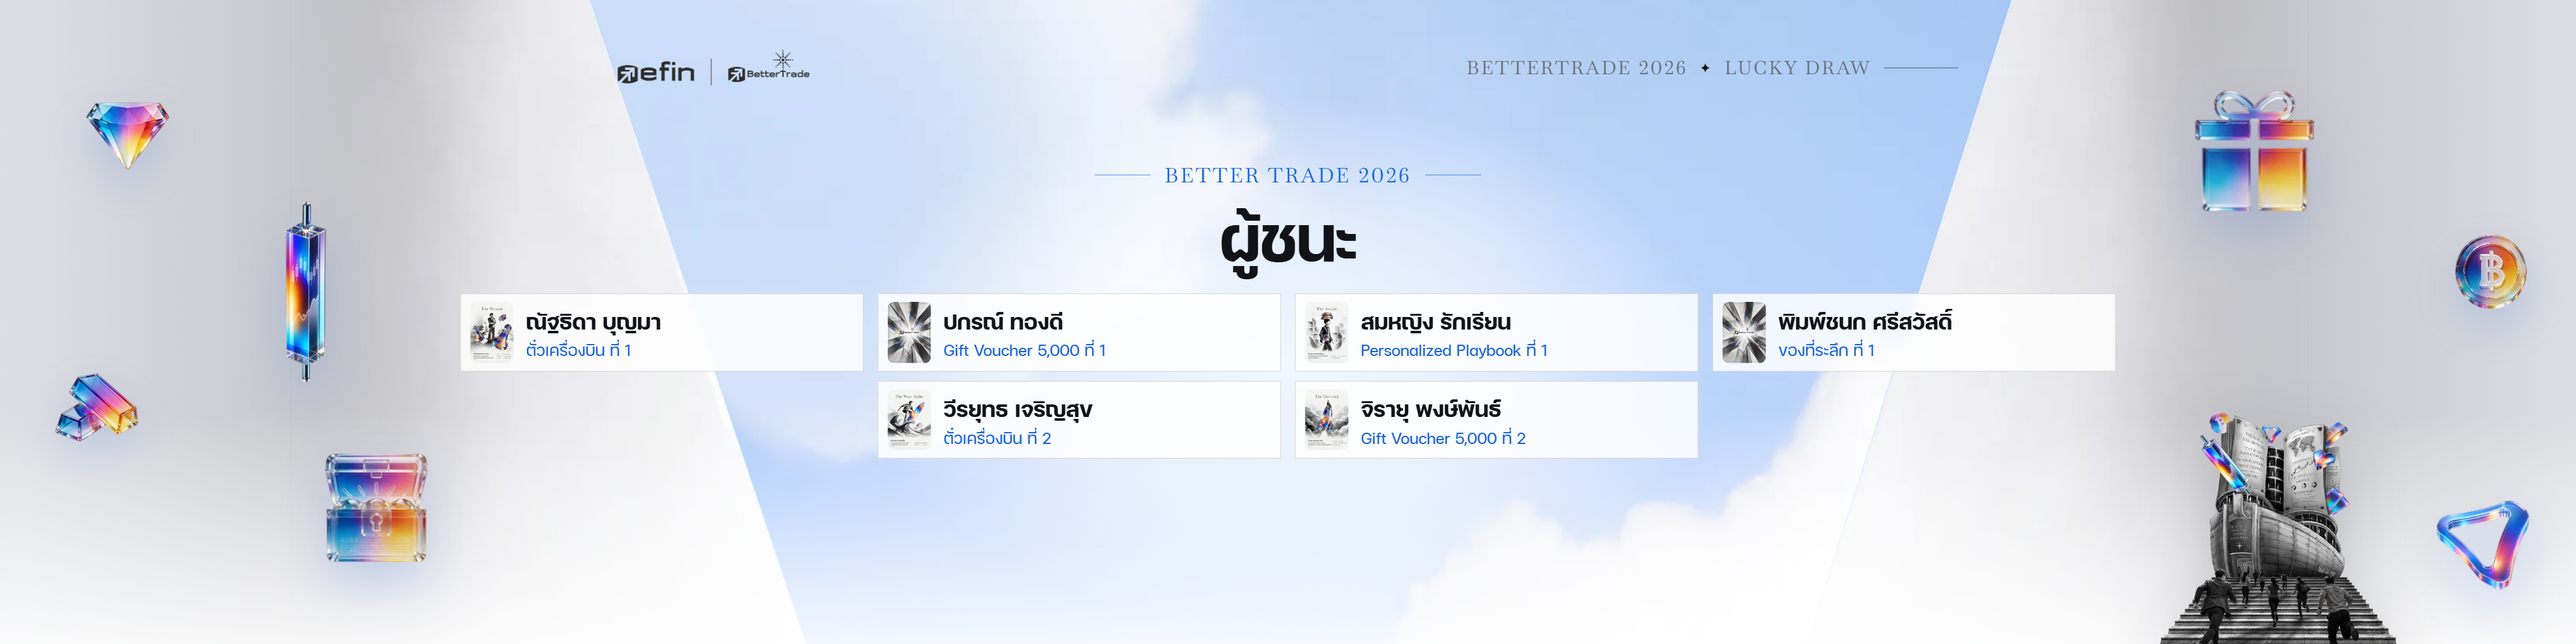
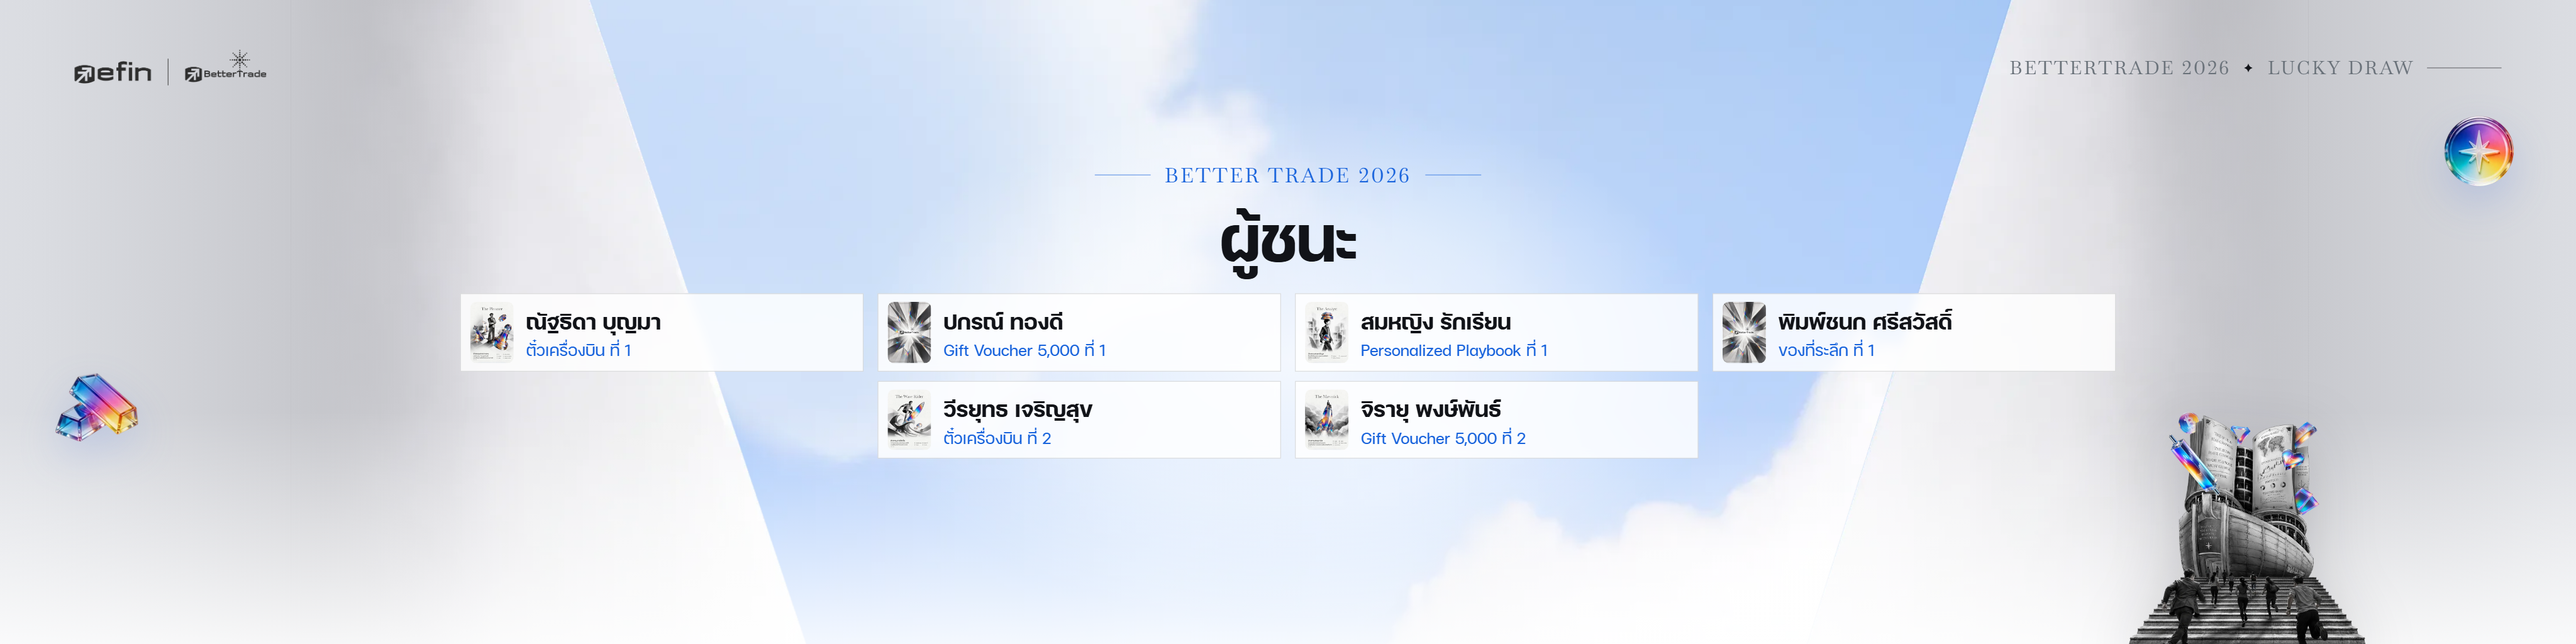
Spread Main Stage glass pieces in three depth layers; align the header to the screen edges
- Far / mid / near layers: pieces move in from the wings into the sky around the content,
  with the bar chart, chest, coin and efin centred between their neighbours
- Replace duplicates: compass (far right) instead of a second coin, no far-left diamond or book
- Header row (logos and BETTERTRADE 2026) follows the edges of the 4:1 screen
- Near pieces fade out on the board scene; ship nudged outside the 4-column board;
  wheel narrower and name column 1200px on Main Stage
- Add compass and diamond-icon assets, regenerate previews

diff --git a/show-screen.html b/show-screen.html
@@ -45,17 +45,26 @@
   .seam.l{left:-325px;background:linear-gradient(90deg,#C8C9CE,rgba(200,201,206,0))}
   .seam.r{left:2015px;background:linear-gradient(270deg,#C8C9CE,rgba(200,201,206,0))}
   .wing-el{position:absolute;filter:drop-shadow(0 22px 26px rgba(63,111,224,.2));animation:bob 7s ease-in-out infinite}
-  /* left zone (core x -700..-110) and right zone (core x 2030..2620) */
-  .wing-el.a{left:-600px;top:110px;width:130px;animation-delay:-2s}
+  /* Main Stage pieces in three depth layers, from the wings in to the sky around the content:
+       far   (wings, small)            gold bars b, compass c
+       mid   (straddling the wall edge) candle, chest, ship
+       near  (in the sky, clear of text) diamond n1, coin n2, gift, efin */
   .wing-el.b{left:-640px;bottom:240px;width:130px;animation-delay:-4.5s}
-  .wing-el.c{left:2450px;top:290px;width:120px;animation-delay:-1s}
+  .wing-el.c{left:2440px;top:140px;width:110px;animation-delay:-1s}
+  .wing-el.n1{left:340px;top:120px;width:120px;animation-delay:-3s}
+  .wing-el.n2{left:1825px;top:360px;width:110px;animation-delay:-5.5s}   /* between the name's right edge (~1560) and the ship (~2044), a little nearer the ship */
+  /* the logo row follows the edges of the whole 4:1 screen (same 96px margin as Mini Stage), not the 1920 core */
+  body.screen-main .top{left:-604px;right:-604px}
   body.screen-main .wall.l{left:-325px}
   body.screen-main .wall.r{left:1559px}
-  body.screen-main .el.candle{left:-430px;top:250px}
-  body.screen-main .el.chest{left:-300px;bottom:90px}
-  body.screen-main .el.gift{right:-380px;top:100px}
-  body.screen-main .ship{right:-470px;height:300px}
-  body.screen-main .el.efin{right:-640px;bottom:70px;width:120px}
+  body.screen-main .el.candle{left:-200px;top:200px}   /* bar centred between the far gold bars (~-510) and the name's left edge (~360) */
+  body.screen-main .el.chest{left:77px;bottom:70px}   /* centred between the bar chart (~-75) and the near diamond (~400) */
+  body.screen-main .el.gift{right:auto;left:1560px;top:60px;width:170px}
+  body.screen-main .ship{right:-430px;height:300px}   /* just outside the 4-column board so it never has to shrink */
+  body.screen-main .el.efin{right:auto;bottom:auto;left:1680px;top:640px;width:120px}
+  /* the 4-column board fills the sky, so the mid and near pieces step aside there (far pieces and the ship stay) */
+  .el,.wing-el{transition:opacity .6s}
+  body.screen-main #stage[data-scene="board"] :is(.el.candle,.el.chest,.el.gift,.el.efin,.wing-el.n1,.wing-el.n2){opacity:0}
   /* ---- KV backdrop: sky seen between two white walls (key visual), layered so each part can move ---- */
   .sky{position:absolute;top:0;left:-6%;width:112%;height:100%;background:url("prize-assets/img/kv-sky.webp") center/cover no-repeat;
     animation:drift 70s ease-in-out infinite alternate}
@@ -129,7 +138,8 @@
   .reel-band{position:absolute;left:0;right:0;top:calc(50% - 60px);height:120px;border-block:2px solid var(--blue);background:var(--blue-tint)}
   .reel-in{position:absolute;left:0;right:0;top:0;will-change:transform}
   .reel-in div{position:absolute;left:0;right:0;height:120px;line-height:120px;font-size:100px;font-weight:700;white-space:nowrap;color:var(--ink);text-align:center;will-change:transform,opacity}
-  body.screen-main .reel{height:360px;margin-top:14px}
+  body.screen-main .reel{height:360px;margin-top:14px;width:1000px}
+  body.screen-main .who{width:1200px}   /* long names shrink a little sooner, keeping clear of the near pieces */
   /* Main Stage is only 830 tall: drawing A and the prize scene get a little more compact / less lifted */
   body.screen-main .drawing .deck{width:170px;margin:18px 0 8px}
   body.screen-main .dv-A .count{font-size:200px;min-height:200px}
@@ -223,9 +233,8 @@
 <div id="stage">
 <div id="core">
   <div class="wing l"></div><div class="wing r"></div>
-  <img class="wing-el a" src="prize-assets/img/diamond-icon.webp" alt="">
   <img class="wing-el b" src="prize-assets/img/gold-bars.webp" alt="">
-  <img class="wing-el c" src="prize-assets/img/coin.webp" alt="">
+  <img class="wing-el c" src="prize-assets/img/compass.webp" alt="">
   <div class="sky"></div>
   <img class="wall l" src="prize-assets/img/kv-wall-l.webp" alt="">
   <img class="wall r" src="prize-assets/img/kv-wall-r.webp" alt="">
@@ -238,6 +247,8 @@
   <img class="el candle" src="prize-assets/img/candle.png" alt="">
   <img class="el chest" src="prize-assets/img/chest.webp" alt="">
   <img class="el gift" src="prize-assets/img/gift.webp" alt="">
+  <img class="wing-el n1" src="prize-assets/img/diamond-icon.webp" alt="">
+  <img class="wing-el n2" src="prize-assets/img/coin.webp" alt="">
 
   <div class="top">
     <img src="prize-assets/img/efinBT.png" alt="efin | BetterTrade">
